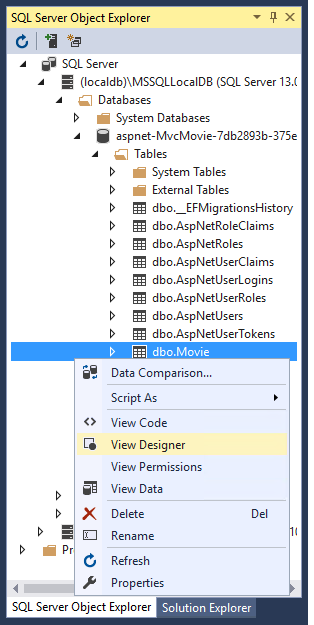
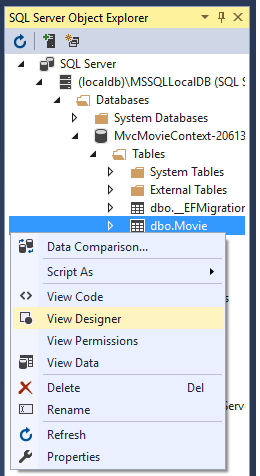
working with SQL LocalDB

diff --git a/aspnetcore/tutorials/first-mvc-app/start-mvc/sample/MvcMovie/Models/SeedData.cs b/aspnetcore/tutorials/first-mvc-app/start-mvc/sample/MvcMovie/Models/SeedData.cs
@@ -1,10 +1,9 @@
-//#define First
+#define First
 #if First
 // Seed without Rating
 #region snippet_1 
 using Microsoft.EntityFrameworkCore;
 using Microsoft.Extensions.DependencyInjection;
-using MvcMovie.Data;
 using System;
 using System.Linq;
 
@@ -14,8 +13,8 @@ namespace MvcMovie.Models
     {
         public static void Initialize(IServiceProvider serviceProvider)
         {
-            using (var context = new ApplicationDbContext(
-                serviceProvider.GetRequiredService<DbContextOptions<ApplicationDbContext>>()))
+            using (var context = new MvcMovieContext(
+                serviceProvider.GetRequiredService<DbContextOptions<MvcMovieContext>>()))
             {
                 // Look for any movies.
                 if (context.Movie.Any())

diff --git a/aspnetcore/tutorials/first-mvc-app/start-mvc/sample/MvcMovie/Models/SeedDataRating.cs b/aspnetcore/tutorials/first-mvc-app/start-mvc/sample/MvcMovie/Models/SeedDataRating.cs
@@ -13,8 +13,8 @@ namespace MvcMovie.Models
     {
         public static void Initialize(IServiceProvider serviceProvider)
         {
-            using (var context = new ApplicationDbContext(
-                serviceProvider.GetRequiredService<DbContextOptions<ApplicationDbContext>>()))
+            using (var context = new MvcMovieContext(
+                serviceProvider.GetRequiredService<DbContextOptions<MvcMovieContext>>()))
             {
                 if (context.Movie.Any())
                 {

diff --git a/aspnetcore/tutorials/first-mvc-app/start-mvc/sample/MvcMovie/Startup.cs b/aspnetcore/tutorials/first-mvc-app/start-mvc/sample/MvcMovie/Startup.cs
@@ -58,6 +58,7 @@ namespace MvcMovie
                 app.UseExceptionHandler("/Home/Error");
             }
 
+            #region snippet_seed
             app.UseStaticFiles();
             #region snippet_1
             app.UseMvc(routes =>
@@ -67,6 +68,9 @@ namespace MvcMovie
                     template: "{controller=Home}/{action=Index}/{id?}");
             });
             #endregion
+
+            SeedData.Initialize(app.ApplicationServices);
         }
     }
 }
+#endregion

diff --git a/aspnetcore/tutorials/first-mvc-app/working-with-sql.md b/aspnetcore/tutorials/first-mvc-app/working-with-sql.md
@@ -1,11 +1,11 @@
 ---
 title: Working with SQL Server LocalDB | Microsoft Docs
 author: rick-anderson
-description: 
-keywords: ASP.NET Core,
+description: Using SQL Server LocalDB with a simple MVC app
+keywords: ASP.NET Core,SQL Server LocalDB, SQL Server, LocalDB 
 ms.author: riande
 manager: wpickett
-ms.date: 10/14/2016
+ms.date: 03/07/2017
 ms.topic: article
 ms.assetid: ff8fd9b8-7c98-424d-8641-7524e23bf541
 ms.technology: aspnet
@@ -16,15 +16,15 @@ uid: tutorials/first-mvc-app/working-with-sql
 
 By [Rick Anderson](https://twitter.com/RickAndMSFT)
 
-The `ApplicationDbContext` class handles the task of connecting to the database and mapping `Movie` objects to database records. The database context is registered with the [Dependency Injection](../../fundamentals/dependency-injection.md) container in the `ConfigureServices` method in the *Startup.cs* file:
+The `MvcMovieContext` object handles the task of connecting to the database and mapping `Movie` objects to database records. The database context is registered with the [Dependency Injection](xref:fundamentals/dependency-injection) container in the `ConfigureServices` method in the *Startup.cs* file:
 
-[!code-csharp[Main](start-mvc/sample2/src/MvcMovie/Startup.cs?name=snippet_details)]
+[!code-csharp[Main](start-mvc/sample/MvcMovie/Startup.cs?name=snippet_cs&highlight=6-8)]
 
-The ASP.NET Core [Configuration](../../fundamentals/configuration.md) system reads the `ConnectionString`. For local development, it gets the connection string from the *appsettings.json* file:
+The ASP.NET Core [Configuration](xref:fundamentals/configuration) system reads the `ConnectionString`. For local development, it gets the connection string from the *appsettings.json* file:
 
-[!code-javascript[Main](../../tutorials/first-mvc-app/start-mvc/sample2/src/MvcMovie/appsettings.json?highlight=3&range=1-6)]
+[!code-javascript[Main](start-mvc/sample/MvcMovie/appsettings.json?highlight=3&range=8-10)]
 
-When you deploy the app to a test or production server, you can use an environment variable or another approach to set the connection string to a real SQL Server. See [Configuration](../../fundamentals/configuration.md) .
+When you deploy the app to a test or production server, you can use an environment variable or another approach to set the connection string to a real SQL Server. See [Configuration](xref:fundamentals/configuration) for more information.
 
 ## SQL Server Express LocalDB
 
@@ -52,7 +52,7 @@ Note the key icon next to `ID`. By default, EF will make a property named `ID` t
 
 Create a new class named `SeedData` in the *Models* folder. Replace the generated code with the following:
 
-[!code-csharp[Main](start-mvc/sample2/src/MvcMovie/Models/SeedData.cs?name=snippet_1)]
+[!code-csharp[Main](start-mvc/sample/MvcMovie/Models/SeedData.cs?name=snippet_1)]
 
 Notice if there are any movies in the DB, the seed initializer returns.
 
@@ -65,7 +65,7 @@ if (context.Movie.Any())
 
 Add the seed initializer to the end of the `Configure` method in the *Startup.cs* file:
 
-[!code-csharp[Main](start-mvc/sample2/src/MvcMovie/Startup.cs?highlight=9&range=79-)]
+[!code-csharp[Main](start-mvc/sample/MvcMovie/Startup.cs?highlight=9&name=snippet_seed)]
 
 Test the app
 
